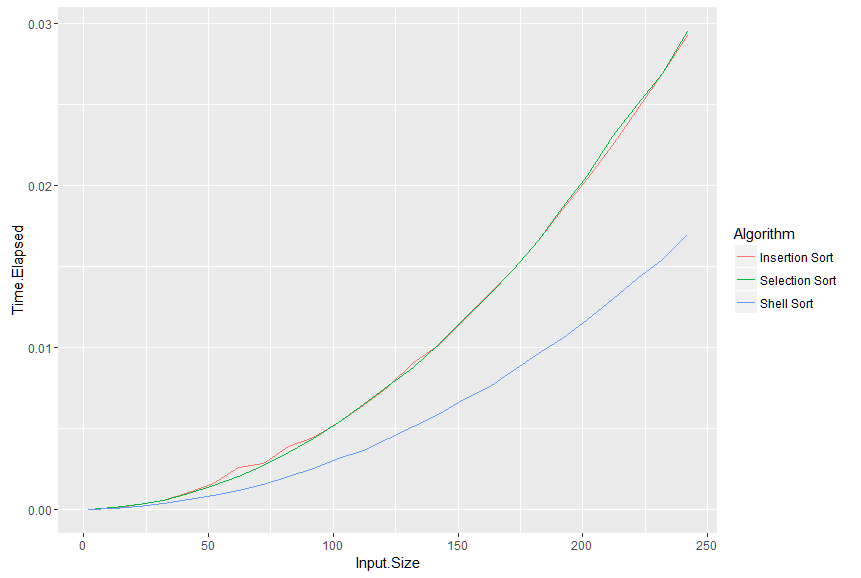
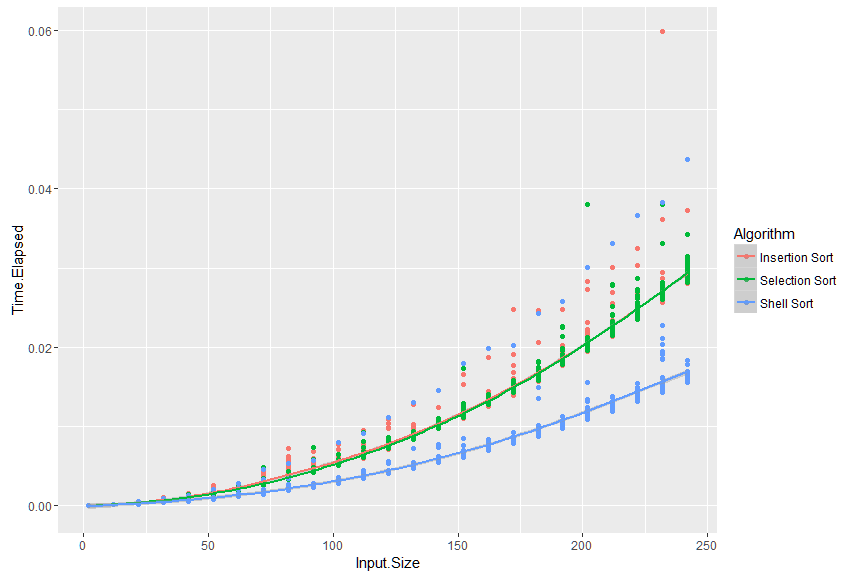
Do smoothing in r instead of averaging in c++

diff --git a/Sorts/Sorts.cpp b/Sorts/Sorts.cpp
@@ -208,12 +208,14 @@ int main()
         iteration.push_back(sort_time.count());
       }
 
-      double average_run_time = std::accumulate(iteration.begin(), iteration.end(), 0.0) / iteration.size();
+      //double average_run_time = std::accumulate(iteration.begin(), iteration.end(), 0.0) / iteration.size();
 
-      SortTime run_time{ input_size, average_run_time };
-      SortTimeEntry entry{ sort.first, run_time };
-
-      sort_times.push_back(entry);
+      for (auto i = iteration.begin(); i < iteration.end(); i++)
+      {
+        SortTime run_time{ input_size, *i };
+        SortTimeEntry entry{ sort.first, run_time };
+        sort_times.push_back(entry);
+      }
 
       cout << input_size << " done." << endl;
     }
